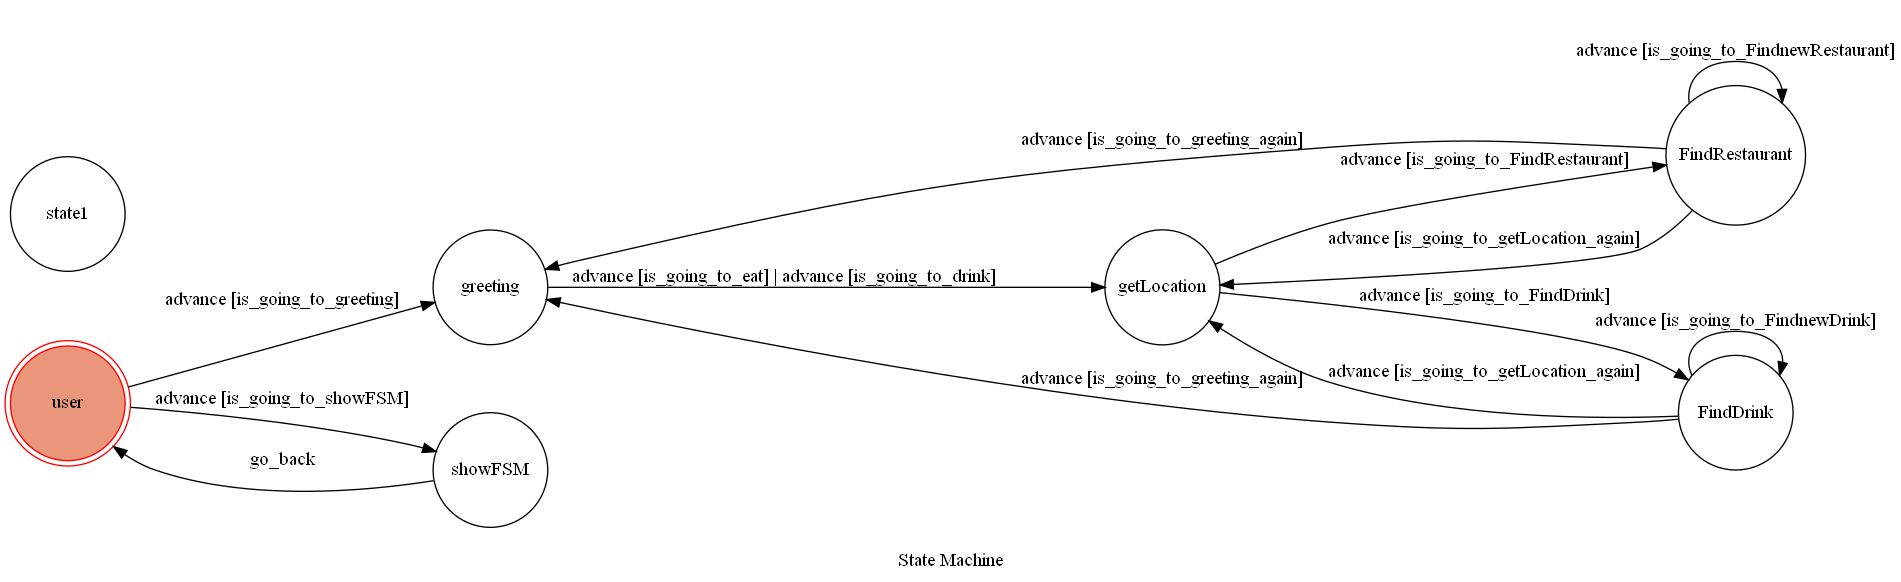
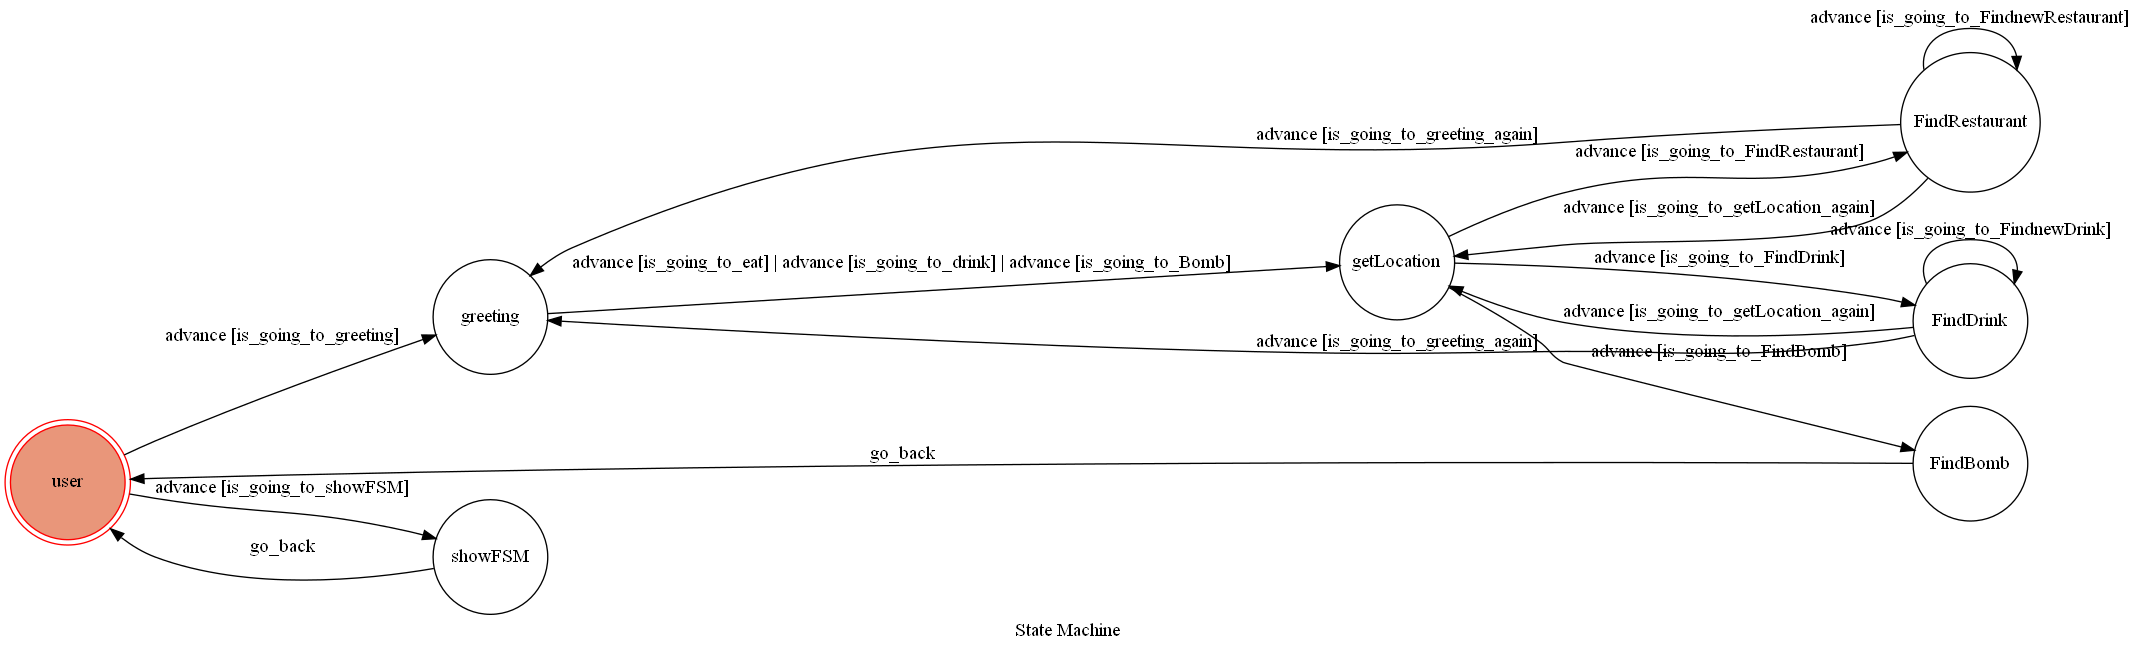
update

diff --git a/fsm.py b/fsm.py
@@ -57,9 +57,9 @@ class TocMachine(GraphMachine):
         text = event.message.text
         return text.lower() == "fsm"
 
-    def is_going_to_state1(self, event):
-        text = event.message.text
-        return text.lower() == "go to state1"
+    # def is_going_to_state1(self, event):
+    #     text = event.message.text
+    #     return text.lower() == "go to state1"
     
     def is_going_to_eat(self, event):
         text = event.message.text
@@ -68,12 +68,18 @@ class TocMachine(GraphMachine):
     def is_going_to_drink(self, event):
         text = event.message.text
         return text.lower() == "喝飲料"
+    def is_going_to_drink(self, event):
+        text = event.message.text
+        return text.lower() == "踩雷"
 
     def is_going_to_FindRestaurant(self, event):
         return self.ans == "吃東西"
 
     def is_going_to_FindDrink(self, event):
         return self.ans == "喝飲料"
+
+    def is_going_to_FindBomb(self, event):
+        return self.ans == "踩雷"
 
     def is_going_to_FindnewRestaurant(self, event):
         text = event.message.text
@@ -120,7 +126,7 @@ class TocMachine(GraphMachine):
         )
         self.items.append(self.lunchbutton)
         self.randombutton = QuickReplyButton(
-            action=PostbackAction(label="隨便",data="隨便", text = "隨便")
+            action=PostbackAction(label="踩雷",data="踩雷", text = "踩雷")
         )
         self.items.append(self.randombutton)
         self.message = TextSendMessage(
@@ -166,17 +172,17 @@ class TocMachine(GraphMachine):
         reply_token = event.reply_token
         send_text_message(reply_token, "請輸入你的位置")
 
-    def on_enter_state1(self, event):
-        print("I'm entering state1")
+    # def on_enter_state1(self, event):
+    #     print("I'm entering state1")
 
-        reply_token = event.reply_token
-        # send_text_message(reply_token, "Trigger state1")
-        sticker_message = StickerSendMessage(	
-            package_id='446',	
-            sticker_id='1988'	
-        )	
-        line_bot_api.reply_message(reply_token, sticker_message)
-        self.go_back()
+    #     reply_token = event.reply_token
+    #     # send_text_message(reply_token, "Trigger state1")
+    #     sticker_message = StickerSendMessage(	
+    #         package_id='446',	
+    #         sticker_id='1988'	
+    #     )	
+    #     line_bot_api.reply_message(reply_token, sticker_message)
+    #     self.go_back()
 
     def on_enter_FindRestaurant(self, event):
         self.mode = "eat"
@@ -221,13 +227,14 @@ class TocMachine(GraphMachine):
         bravo = []
         for i in range(res_num):
             try:
-                if top20_restaurants[i]['rating'] > 3.5:
+                if top20_restaurants[i]['rating'] > 4:
                     print('rate: ', top20_restaurants[i]['rating'])
                     bravo.append(i)
             except:
                 KeyError
         if len(bravo) < 0:
-            content = "沒東西可以吃"
+            reply_token = event.reply_token
+            send_text_message(reply_token, "你附近沒有雷!")
             # restaurant = random.choice(top20_restaurants)
         
         restaurant = top20_restaurants[random.choice(bravo)]
@@ -282,8 +289,6 @@ class TocMachine(GraphMachine):
         if first:
             self.previous_address = text
             first = False
-        # print(text)
-        # get_location('台南市東區中華東路三段380巷1號1')
 
         ### get lat and lng
         address = urllib.request.quote(self.previous_address)
@@ -316,7 +321,7 @@ class TocMachine(GraphMachine):
         bravo = []
         for i in range(res_num):
             try:
-                if top20_restaurants[i]['rating'] > 3.5:
+                if top20_restaurants[i]['rating'] > 4:
                     print('rate: ', top20_restaurants[i]['rating'])
                     bravo.append(i)
             except:
@@ -366,6 +371,94 @@ class TocMachine(GraphMachine):
             )
         )
         line_bot_api.reply_message(reply_token, buttons_template_message)
+
+    def on_enter_FindBomb(self, event):
+        self.mode = "bomb"
+        print("I'm entering FindBomb")
+        # print("Res ans = ", self.ans)
+        text = event.message.text
+        global first
+        if first:
+            self.previous_address = text
+            first = False
+
+        ### get lat and lng
+        address = urllib.request.quote(self.previous_address)
+        url = "https://maps.googleapis.com/maps/api/geocode/json?address=" + address + '&key='+ Google_Map_API_KEY
+
+        while True:
+            res = requests.get(url)
+            js = json.loads(res.text)
+
+            if js['status'] != "OVER_QUERY_LIMIT":
+                time.sleep(1)
+                break
+
+        result = js['results'][0]["geometry"]["location"]
+        lat = result["lat"]
+        lng = result["lng"]
+        print(lat, lng)
+        ###
+        ### nearby restaurants
+        if self.ans == "吃東西":
+            foodStoreSearch = "https://maps.googleapis.com/maps/api/place/nearbysearch/json?key={}&location={},{}&rankby=distance&type=restaurant&language=zh-TW".format(Google_Map_API_KEY, lat, lng)
+        elif self.ans == "喝飲料":
+            foodStoreSearch = "https://maps.googleapis.com/maps/api/place/nearbysearch/json?key={}&location={},{}&rankby=distance&keyword=飲料&language=zh-TW".format(Google_Map_API_KEY, lat, lng)
+        else:
+             foodStoreSearch = "https://maps.googleapis.com/maps/api/place/nearbysearch/json?key={}&location={},{}&rankby=distance&language=zh-TW".format(Google_Map_API_KEY, lat, lng)
+        foodReq = requests.get(foodStoreSearch)
+        nearby_restaurants_dict = foodReq.json()
+        top20_restaurants = nearby_restaurants_dict['results']
+        res_num = len(top20_restaurants)
+        bravo = []
+        for i in range(res_num):
+            try:
+                if top20_restaurants[i]['rating'] <= 4:
+                    print('rate: ', top20_restaurants[i]['rating'])
+                    bravo.append(i)
+            except:
+                KeyError
+        if len(bravo) < 0:
+            send_text_message(reply_token, "你附近沒有雷!")
+            self.go_back()
+        
+        restaurant = top20_restaurants[random.choice(bravo)]
+
+        if restaurant.get("photos") is None:
+            thumbnail_image_url = None
+        else:
+            photo_reference = restaurant["photos"][0]["photo_reference"]
+            photo_width = restaurant["photos"][0]["width"]
+            thumbnail_image_url = "https://maps.googleapis.com/maps/api/place/photo?key={}&photoreference={}&maxwidth={}".format(Google_Map_API_KEY, photo_reference, photo_width)
+        
+        rating = "無" if restaurant.get("rating") is None else restaurant["rating"]
+        address = "沒有資料" if restaurant.get("vicinity") is None else restaurant["vicinity"]
+        details = "Google Map 評分: {}\n地址:{}".format(rating, address)
+        print(details)
+
+        map_url = "https://www.google.com/maps/search/?api=1&query={lat},{long}&query_place_id={place_id}".format(lat=restaurant["geometry"]["location"]["lat"], long=restaurant["geometry"]["location"]["lng"], place_id= restaurant["place_id"])
+        ###
+        print("Find Restaurant")
+        print("title: ", restaurant['name'])
+        ### reply
+        reply_token = event.reply_token
+
+        buttons_template_message = TemplateSendMessage(
+            alt_text = restaurant["name"],
+            template = ButtonsTemplate(
+                thumbnail_image_url = thumbnail_image_url,
+                title = restaurant['name'],
+                text= details,
+                actions=[
+                    URITemplateAction(
+                        label='查看地圖',
+                        uri=map_url
+                    ),
+                ]
+            )
+        )
+        line_bot_api.reply_message(reply_token, buttons_template_message)
+        self.go_back()
 ############ on_exit ############
-    def on_exit_state1(self):
-        print("Leaving state1")
+    # def on_exit_state1(self):
+    #     print("Leaving state1")

diff --git a/app.py b/app.py
@@ -20,7 +20,7 @@ load_dotenv()
 
 
 machine = TocMachine(
-    states=["user", "greeting","showFSM","getLocation","FindRestaurant","FindDrink","state1"],
+    states=["user", "greeting","showFSM","getLocation","FindRestaurant","FindDrink","FindBomb"],
     transitions=[
         {
             "trigger": "advance",
@@ -48,6 +48,12 @@ machine = TocMachine(
         },
         {
             "trigger": "advance",
+            "source": "greeting",
+            "dest": "getLocation",
+            "conditions": "is_going_to_Bomb",
+        },
+        {
+            "trigger": "advance",
             "source": "getLocation",
             "dest": "FindRestaurant",
             "conditions": "is_going_to_FindRestaurant",
@@ -57,6 +63,12 @@ machine = TocMachine(
             "source": "getLocation",
             "dest": "FindDrink",
             "conditions": "is_going_to_FindDrink",
+        },
+        {
+            "trigger": "advance",
+            "source": "getLocation",
+            "dest": "FindBomb",
+            "conditions": "is_going_to_FindBomb",
         },
         {
             "trigger": "advance",
@@ -83,7 +95,7 @@ machine = TocMachine(
             "conditions": "is_going_to_greeting_again",
         },
         {   "trigger": "go_back", 
-            "source": "showFSM",
+            "source": ["showFSM","FindBomb"],
             "dest": "user"
         },
     ],
